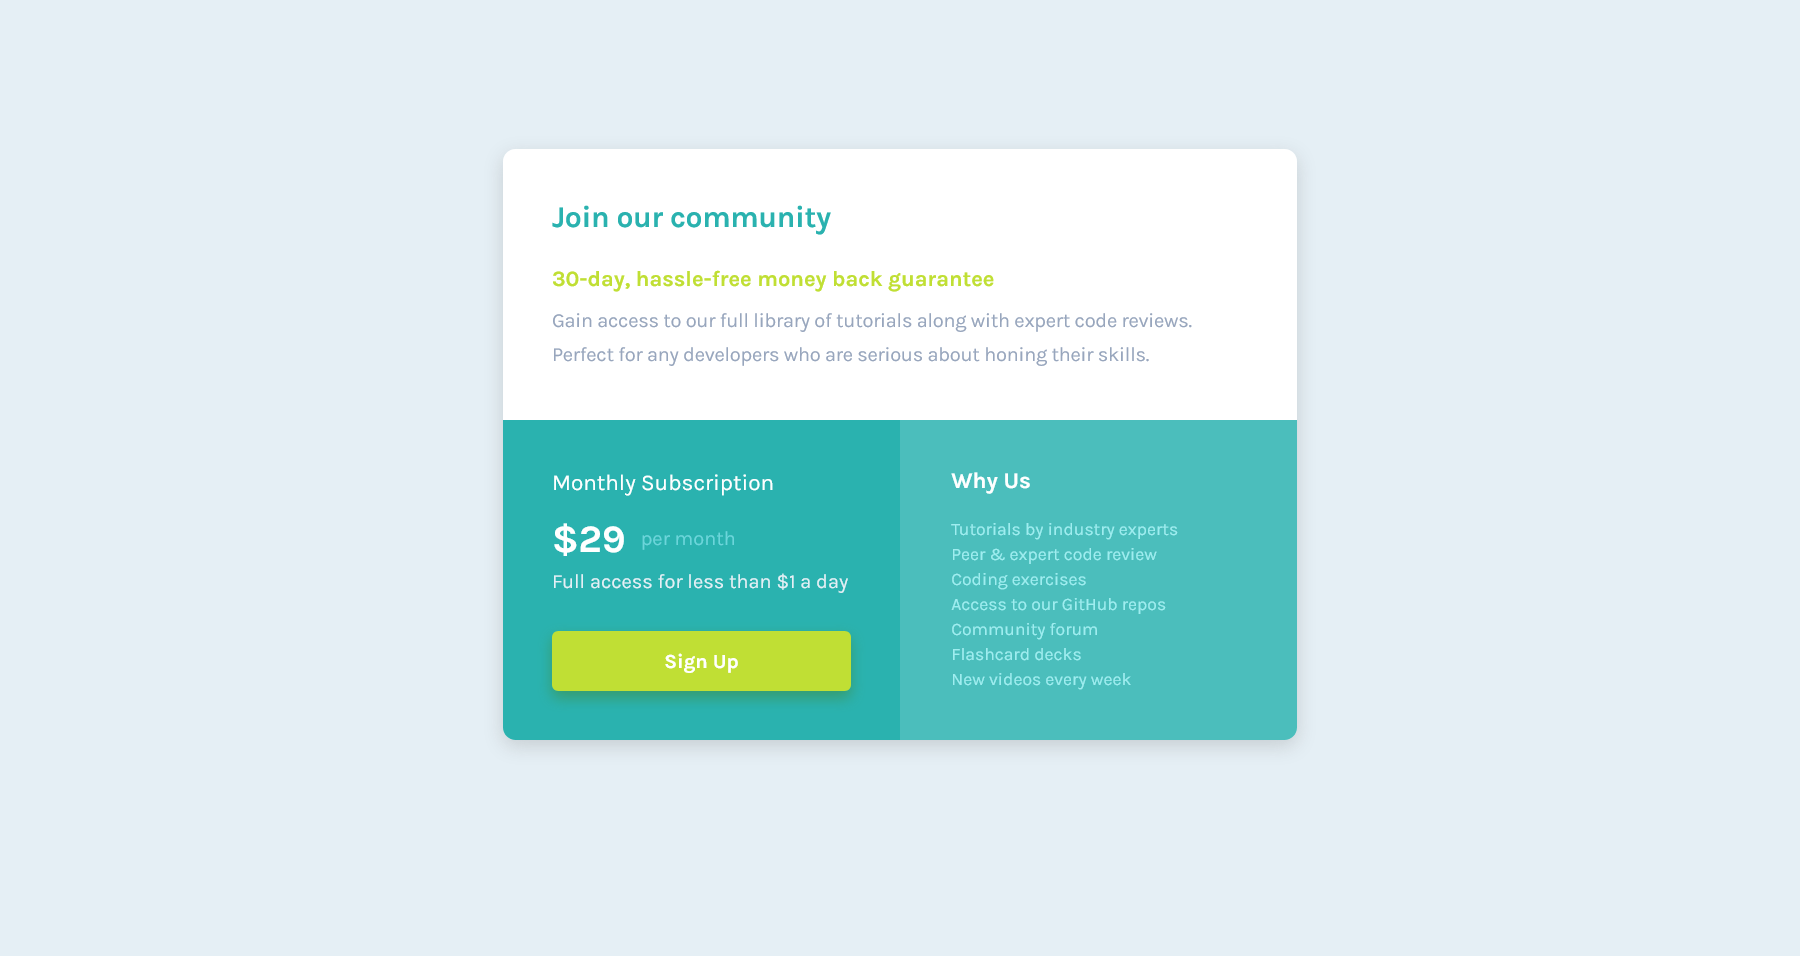
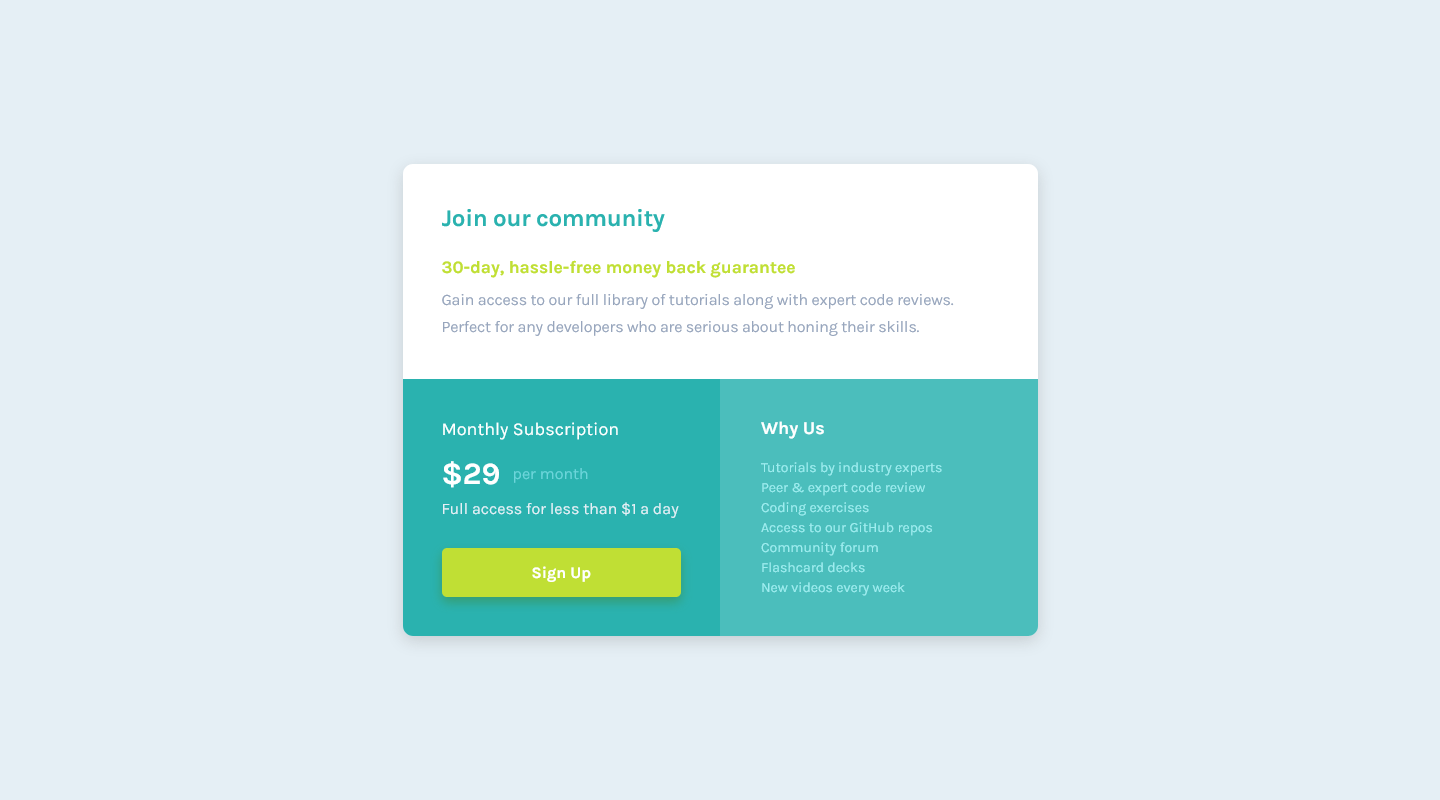
Add files via upload

Changed region(s): [[0.2812, 0.1562, 0.7188, 0.8125]]

diff --git a/style.css b/style.css
@@ -39,6 +39,7 @@ body {
 }
 .main_area {
   min-width: 375px;
+  height: auto;
   background: var(--lightGray);
   padding: 10%;
   margin: 0 auto;
@@ -46,6 +47,7 @@ body {
 
 .content_area {
   min-width: 311px;
+  height: 100%;
   margin: 0 auto;
   border-radius: 10px;
   box-shadow: 0 5px 15px rgba(128, 128, 128, 0.3);
@@ -150,6 +152,7 @@ body {
   }
   .content_area {
     max-width: 635px;
+
     display: grid;
     grid-template-columns: repeat(12, 1fr);
   }
@@ -202,5 +205,12 @@ body {
   .main_area {
     flex-basis: 1440px;
     height: 800px;
+    padding: 0;
+    display: flex;
+    align-items: center;
+    justify-content: center;
+  }
+  .content_area {
+    height: auto;
   }
 }
